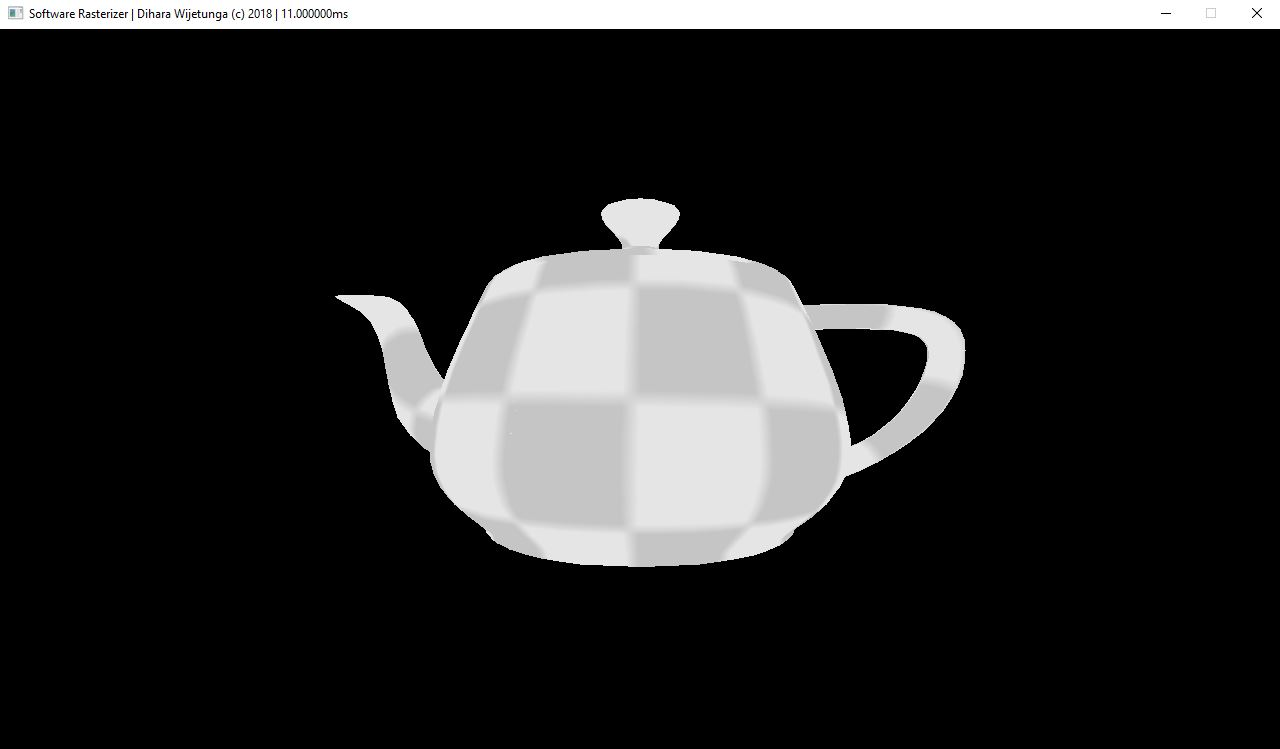
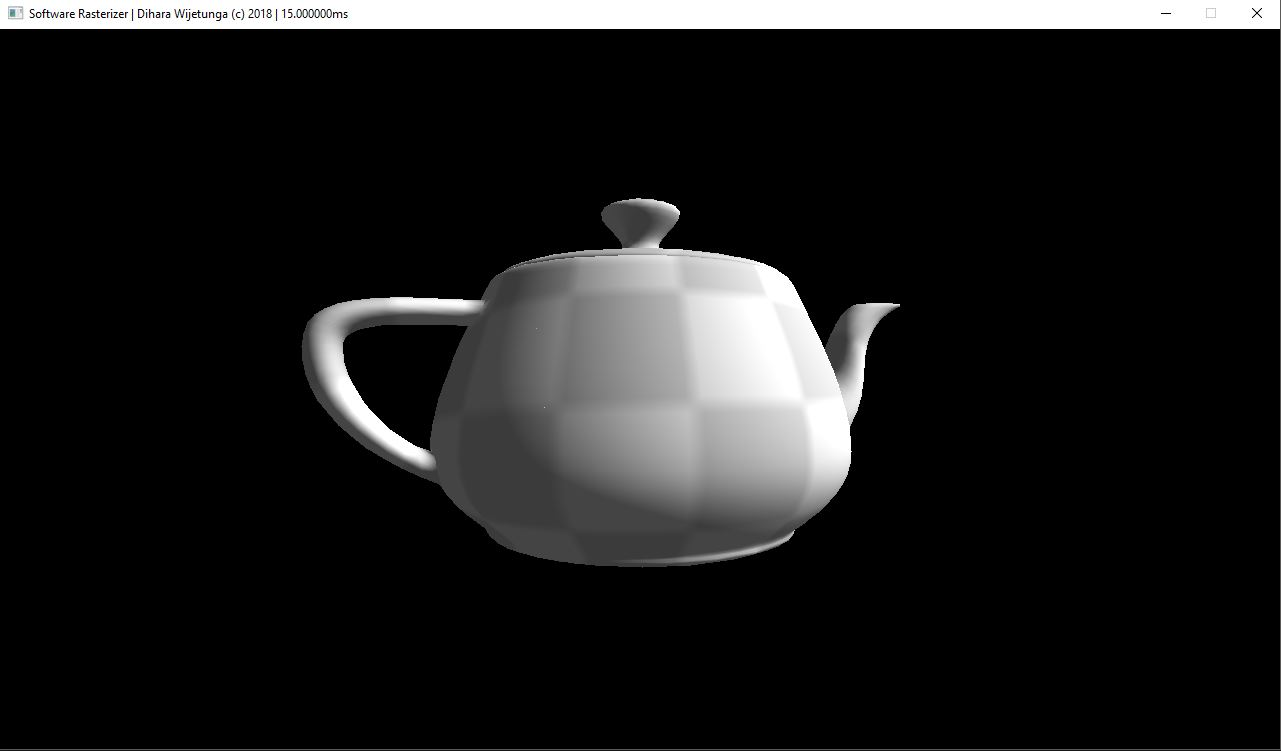
Perspective correct interpolation. Light API.

Changed region(s): [[0.2188, 0.2457, 0.7812, 0.7677], [0.1562, 0.0, 0.2812, 0.0307]]

diff --git a/src/rasterator.cpp b/src/rasterator.cpp
@@ -16,14 +16,18 @@
 namespace rst
 {
 	// Global state.
-	VertexBuffer* g_current_vb = nullptr;
-	IndexBuffer*  g_current_ib = nullptr;
-	Texture*	  g_current_color_target = nullptr;
-	Texture*	  g_current_depth_target = nullptr;
-	Texture*	  g_current_textures[3];
-	mat4f		  g_current_model_mat;
-	mat4f		  g_current_view_mat;
-	mat4f		  g_current_projection_mat;
+	VertexBuffer*	  g_current_vb = nullptr;
+	IndexBuffer*	  g_current_ib = nullptr;
+	Texture*		  g_current_color_target = nullptr;
+	Texture*		  g_current_depth_target = nullptr;
+	Texture*		  g_current_textures[3];
+	mat4f			  g_current_model_mat;
+	mat4f			  g_current_view_mat;
+	mat4f			  g_current_projection_mat;
+	uint32_t		  g_dir_light_count = 0;
+	DirectionalLight* g_current_dir_lights = nullptr;
+	uint32_t		  g_point_light_count = 0;
+	PointLight*		  g_current_point_lights = nullptr;
 
 	// -----------------------------------------------------------------------------------------------------------------------------------
 
@@ -46,7 +50,7 @@ namespace rst
 
 	Color Color::operator + (const Color &c) const
 	{
-		return Color(r + c.r, g + c.g, b + c.b, a + c.a);
+        return Color(std::min(255, r + c.r), std::min(255, g + c.g), std::min(255, b + c.b), std::min(255, a + c.a));
 	}
 
 	// -----------------------------------------------------------------------------------------------------------------------------------
@@ -507,17 +511,27 @@ namespace rst
 
 	// -----------------------------------------------------------------------------------------------------------------------------------
 
-	inline void triangle(const Vertex& v0, const Vertex& v1, const Vertex& v2, const mat4f& mvp, Texture* color_tex, Texture* depth_tex)
+	inline void triangle(const Vertex& v0, const Vertex& v1, const Vertex& v2, const mat4f& vp, Texture* color_tex, Texture* depth_tex)
 	{
 		uint32_t width = color_tex->m_width;
 		uint32_t height = color_tex->m_height;
 
-		// Convert to screen space
-		vec4f v0ndc = mvp * vec4f(v0.position.x, v0.position.y, v0.position.z, 1.0f);
-		vec4f v1ndc = mvp * vec4f(v1.position.x, v1.position.y, v1.position.z, 1.0f);
-		vec4f v2ndc = mvp * vec4f(v2.position.x, v2.position.y, v2.position.z, 1.0f);
+		// Convert to world space 
+		vec4f v0world = g_current_model_mat * vec4f(v0.position.x, v0.position.y, v0.position.z, 1.0f);
+		vec4f v1world = g_current_model_mat * vec4f(v1.position.x, v1.position.y, v1.position.z, 1.0f);
+		vec4f v2world = g_current_model_mat * vec4f(v2.position.x, v2.position.y, v2.position.z, 1.0f);
 
-		// Perspective division
+		// Convert to screen space
+		vec4f v0ndc = vp * v0world;
+		vec4f v1ndc = vp * v1world;
+		vec4f v2ndc = vp * v2world;
+
+		// Keep view space Z around for perspective correct interpolation
+        float v0view_z = v0ndc.w;
+        float v1view_z = v1ndc.w;
+        float v2view_z = v2ndc.w;
+        
+        // Perspective division
 		v0ndc = v0ndc / v0ndc.w;
 		v1ndc = v1ndc / v1ndc.w;
 		v2ndc = v2ndc / v2ndc.w;
@@ -551,10 +565,28 @@ namespace rst
 		bboxmax.y = std::min(clamp.y, std::max(bboxmax.y, v1screen.y));
 		bboxmax.y = std::min(clamp.y, std::max(bboxmax.y, v2screen.y));
 
-		// Triangle area
-		float area = edge_function(v0screen, v1screen, v2screen);
+        // Divide vertex attributes by view space Z for perspective correct interpolation
+        vec2f v0tc = v0.texcoord / v0view_z;
+        vec2f v1tc = v1.texcoord / v1view_z;
+        vec2f v2tc = v2.texcoord / v2view_z;
+        
+        vec3f v0n = v0.normal / v0view_z;
+        vec3f v1n = v1.normal / v1view_z;
+        vec3f v2n = v2.normal / v2view_z;
 
-		vec2f p;
+		vec3f v0w = vec3f(v0world.x, v0world.y, v0world.z) / v0view_z;
+		vec3f v1w = vec3f(v1world.x, v1world.y, v1world.z) / v1view_z;
+		vec3f v2w = vec3f(v2world.x, v2world.y, v2world.z) / v2view_z;
+        
+        // One over view Z
+        v0view_z = 1.0f / v0view_z;
+        v1view_z = 1.0f / v1view_z;
+        v2view_z = 1.0f / v2view_z;
+        
+        // Triangle area
+        float area = edge_function(v0screen, v1screen, v2screen);
+        
+        vec2f p;
 
 		// Iterate over pixels in triangle bounding box
 		for (p.x = bboxmin.x; p.x <= bboxmax.x; p.x++)
@@ -574,7 +606,7 @@ namespace rst
 					w2 /= area;
 
 					// Calculate interpolated pixel depth
-					float z = v0ndc.z * w0 + v1ndc.z * w1 + v2ndc.z *w2;
+					float z = 1.0f / (v0view_z * w0 + v1view_z * w1 + v2view_z * w2);
 
 					// Perform depth test
 					if (z < depth_tex->m_depth[int(p.x + p.y * depth_tex->m_width)])
@@ -582,17 +614,49 @@ namespace rst
 						// Update depth buffer value if depth test is passesd
 						depth_tex->m_depth[int(p.x + p.y * depth_tex->m_width)] = z;
 
-						// Interpolate texture coordinates
-						vec2f texcoord = v0.texcoord * w0 + v1.texcoord * w1 + v2.texcoord * w2;
+						// Interpolate attributes
+						vec2f texcoord = v0tc * w0 + v1tc * w1 + v2tc * w2;
+                        texcoord = texcoord * z;
+                        
+                        vec3f normal = v0n * w0 + v1n * w1 + v2n * w2; 
+                        normal = (normal * z).normalize();
 
-						//std::cout << "[ " << texcoord.x << ", " << texcoord.y << " ]" << std::endl;
+						vec3f world_position = v0w * w0 + v1w * w1 + v2w * w2;
+						world_position = world_position * z;
 
+						// @TODO: Transform normal into world space.
+                        
 						// Fetch texture sample
-						Texture* diffuse = g_current_textures[TEXTURE_DIFFUSE];
-						uint32_t color = diffuse ? diffuse->sample(texcoord.x, texcoord.y) : RST_COLOR_RGBA(1.0f, 1.0f, 1.0f, 1.0f);
+						Texture* diffuse_texture = g_current_textures[TEXTURE_DIFFUSE];
 
+						Color diffuse = diffuse_texture ? diffuse_texture->sample(texcoord.x, texcoord.y) : RST_COLOR_RGBA(1.0f, 1.0f, 1.0f, 1.0f);
+						Color ambient = diffuse * 0.3f;
+
+						Color result = Color(0.0f, 0.0f, 0.0f, 1.0f);
+
+						// Accumulate directional light contribution
+						for (uint32_t i = 0; i < g_dir_light_count; i++)
+						{
+							float lambert = std::max(0.0f, normal.dot(g_current_dir_lights[i].direction * -1.0f));
+							result = result + diffuse * lambert + ambient;
+						}
+
+						// Accumulate directional light contribution
+						for (uint32_t i = 0; i < g_point_light_count; i++)
+						{
+							PointLight& light = g_current_point_lights[i];
+
+							float distance = world_position.distance(light.position);
+							float attenuation = 1.0 / (light.constant + light.linear * distance + light.quadratic * (distance * distance));
+
+							vec3f direction = world_position.direction(light.position);
+
+							float lambert = std::max(0.0f, normal.dot(direction));
+							result = result + diffuse * lambert * attenuation + ambient;
+						}
+		
 						// Write new pixel color
-						color_tex->set_color(color, p.x, p.y);
+						color_tex->set_color(result.pixel, p.x, p.y);
 					}
 				}
 			}
@@ -619,6 +683,38 @@ namespace rst
 	void set_index_buffer(IndexBuffer* ib)
 	{
 		g_current_ib = ib;
+	}
+
+	// -----------------------------------------------------------------------------------------------------------------------------------
+
+	void set_directional_lights(uint32_t count, DirectionalLight* lights)
+	{
+		if (lights)
+		{
+			g_dir_light_count = count;
+			g_current_dir_lights = lights;
+		}		
+		else
+		{
+			g_dir_light_count = 0;
+			g_current_dir_lights = nullptr;
+		}
+	}
+
+	// -----------------------------------------------------------------------------------------------------------------------------------
+
+	void set_point_lights(uint32_t count, PointLight* lights)
+	{
+		if (lights)
+		{
+			g_point_light_count = count;
+			g_current_point_lights = lights;
+		}
+		else
+		{
+			g_point_light_count = 0;
+			g_current_point_lights = nullptr;
+		}
 	}
 
 	// -----------------------------------------------------------------------------------------------------------------------------------
@@ -677,14 +773,14 @@ namespace rst
 		std::vector<Vertex>& vertices = g_current_vb->vertices;
 
 		// Compute MVP matrix.
-		mat4f mvp = g_current_projection_mat * g_current_view_mat * g_current_model_mat;
+		mat4f vp = g_current_projection_mat * g_current_view_mat;
 		
 		// Iterate over vertices.
 		#pragma omp parallel for
 		for (int i = 0; i < count; i += 3)
 		{
 			// Rasterize triangle.
-			triangle(vertices[first_index + i], vertices[first_index + i + 1], vertices[first_index + i + 2], mvp, g_current_color_target, g_current_depth_target);
+			triangle(vertices[first_index + i], vertices[first_index + i + 1], vertices[first_index + i + 2], vp, g_current_color_target, g_current_depth_target);
 		}
 	}
 
@@ -709,14 +805,14 @@ namespace rst
 		std::vector<Vertex>& vertices = g_current_vb->vertices;
 
 		// Compute MVP matrix.
-		mat4f mvp = g_current_projection_mat * g_current_view_mat * g_current_model_mat;
+		mat4f vp = g_current_projection_mat * g_current_view_mat;
 
 		// Iterate over vertices,
 		#pragma omp parallel for
 		for (int i = 0; i < count; i += 3)
 		{
 			// Rasterize triangle.
-			triangle(vertices[indices[i]], vertices[indices[i + 1]], vertices[indices[i + 2]], mvp, g_current_color_target, g_current_depth_target);
+			triangle(vertices[indices[i]], vertices[indices[i + 1]], vertices[indices[i + 2]], vp, g_current_color_target, g_current_depth_target);
 		}
 	}
 
@@ -741,14 +837,14 @@ namespace rst
 		std::vector<Vertex>& vertices = g_current_vb->vertices;
 
 		// Compute MVP matrix.
-		mat4f mvp = g_current_projection_mat * g_current_view_mat * g_current_model_mat;
+		mat4f vp = g_current_projection_mat * g_current_view_mat;
 
 		// Iterate over vertices.
 		#pragma omp parallel for
 		for (int i = 0; i < index_count; i += 3)
 		{
 			// Rasterize triangle.
-			triangle(vertices[base_vertex + indices[base_index + i]], vertices[base_vertex + indices[base_index + i + 1]], vertices[base_vertex + indices[base_index + i + 2]], mvp, g_current_color_target, g_current_depth_target);
+			triangle(vertices[base_vertex + indices[base_index + i]], vertices[base_vertex + indices[base_index + i + 1]], vertices[base_vertex + indices[base_index + i + 2]], vp, g_current_color_target, g_current_depth_target);
 		}
 	}
 

diff --git a/sample/main.cpp b/sample/main.cpp
@@ -18,6 +18,8 @@ class Demo : public Application
 	vec3f m_position;
 	vec3f m_direction;
 
+	rst::DirectionalLight m_dir_light;
+	rst::PointLight m_point_light;
 	rst::Model m_obj_model;
 	std::unique_ptr<rst::Texture> m_color_tex;
 	std::unique_ptr<rst::Texture> m_depth_tex;
@@ -46,6 +48,15 @@ protected:
 
 		rst::initialize();
 
+		m_dir_light.color = vec3f(1.0f, 1.0f, 1.0f);
+		m_dir_light.direction = vec3f(1.0f, -1.0f, 0.0f).normalize();
+
+		m_point_light.color = vec3f(1.0f, 1.0f, 1.0f);
+		m_point_light.position = vec3f(0.0f, 0.0f, 150.0f);
+		m_point_light.constant = 1.0f;
+		m_point_light.linear = 0.0014;
+		m_point_light.quadratic = 0.000007;
+
 		return true;
 	}
 
@@ -54,10 +65,10 @@ protected:
 		m_depth_tex->clear();
 		m_color_tex->clear(0.0f, 0.0f, 0.0f, 1.0f);
 
-		vec3f light_dir = vec3f(0.0f, 0.0f, -1.0f);
-		light_dir.normalize();
-
 		m_model = rotation(radians(SDL_GetTicks() * 0.05f), vec3f(0.0f, 1.0f, 0.0f));
+
+		// Set lights
+		rst::set_directional_lights(1, &m_dir_light);
 
 		// Set render targets
 		rst::set_render_target(m_color_tex.get(), m_depth_tex.get());

diff --git a/include/rasterator.hpp b/include/rasterator.hpp
@@ -122,10 +122,27 @@ namespace rst
 		TEXTURE_SPECULAR = 2
 	};
 
+	struct DirectionalLight
+	{
+		vec3f direction;
+		vec3f color;
+	};
+
+	struct PointLight
+	{
+		vec3f position;
+		vec3f color;
+		float constant;
+		float linear;
+		float quadratic;
+	};
+
 	extern bool create_model(const std::string& file, Model& model);
 	extern void initialize();
 	extern void set_vertex_buffer(VertexBuffer* vb);
 	extern void set_index_buffer(IndexBuffer* ib);
+	extern void set_directional_lights(uint32_t count, DirectionalLight* lights);
+	extern void set_point_lights(uint32_t count, PointLight* lights);
 	extern void set_render_target(Texture* color, Texture* depth);
 	extern void set_model_matrix(const mat4f& model);
 	extern void set_view_matrix(const mat4f& view);

diff --git a/include/math/vec2.hpp b/include/math/vec2.hpp
@@ -43,6 +43,11 @@ namespace math
 			return vec2(lhs * rhs.x, lhs * rhs.y);
 		}
 
+		friend vec2 operator/(const vec2& lhs, const T& rhs) 
+		{
+			return vec2<T>(lhs.x / rhs, lhs.y / rhs);
+		}
+
 		inline const T& operator[] (unsigned index) const
 		{
 			assert(index < 2);
@@ -53,11 +58,6 @@ namespace math
 		{
 			assert(index < 2);
 			return data[index];
-		}
-
-		inline vec2 operator/(const T& s)
-		{
-			return vec2(x / s, y / s);
 		}
 
 		inline float length() const

diff --git a/README.md b/README.md
@@ -9,7 +9,7 @@ A Real-time, C++ toy software rasterizer created for understanding the graphics 
 * Near-complete implementation of the graphics pipeline
 * Interactive framerates
 * Depth buffering
-* Vertex attribute interpolation
+* Perspective-correct vertex attribute interpolation
 * OpenMP multithreading
 * Texture mappingk
 * Bilinear texture filtering
@@ -29,7 +29,6 @@ Make sure to have the Emscripten SDK installed. Then use CMake with the Emscript
 NOTE: Emscripten build is pretty slow, so use a lower resolution.
 
 ## Roadmap
-* Light sources
 * SIMD Acceleration (SSE/AVX)
 * Normal mapping
 * Specular mapping
